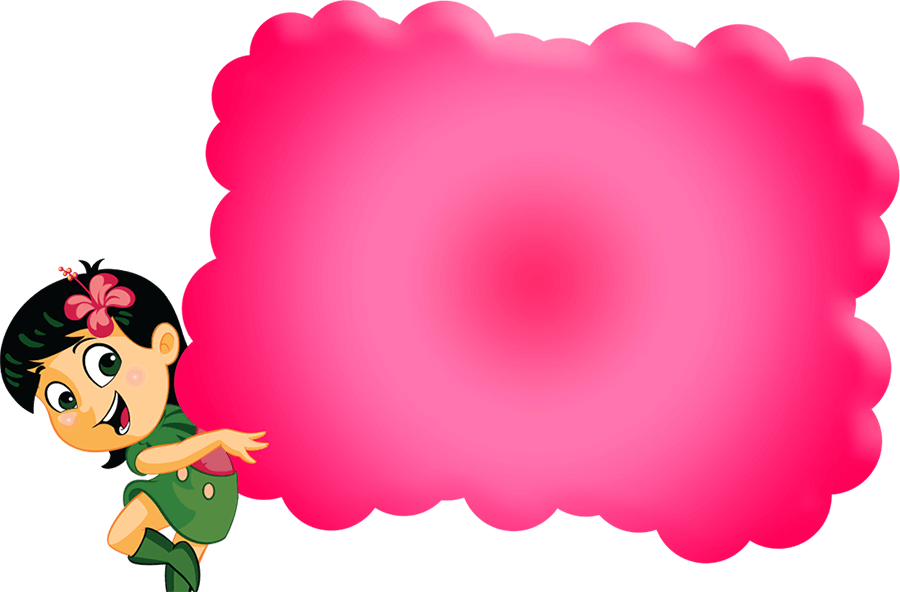
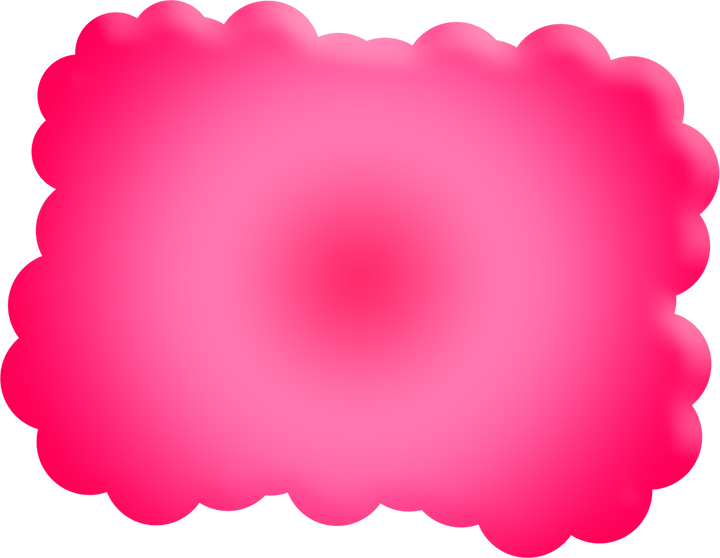
update mobile layout popup details

diff --git a/app/styles/global/_modal.scss b/app/styles/global/_modal.scss
@@ -498,28 +498,26 @@
 }
 
 .modal--video-detail {
-    margin-top: 80px;
-    /* @include screen( medium ) {
-        margin-top: 20px;
-    } */
     &.type-1 {
         background: url('../images/modal/bg-details-1.png') center center no-repeat;
         background-size: 100% 100%;
-        max-width: 900px;
-        height: 592px;
+        max-width: 720px;
+        height: 558px;
+
+        .figure {
+            bottom: 0;
+            left: -20%;
+            position: absolute;
+        }
     }
     &.type-2 {
         background: url('../images/modal/bg-details-2.png') center center no-repeat;
         background-size: 100% 100%;
-        max-width: 1000px;
+        max-width: 720px;
         height: 548px;
 
-        .btn-close {
-            top: 5%;
-            right: 10%;
-        }
         .heading-top {
-            margin: -30px auto 0;
+            margin: 0 auto;
             @include screen( medium ) {
                 top: -30px;
                 margin-left: 100px;
@@ -527,7 +525,7 @@
         }
         .inner {
             top: -30px;
-            padding: 0 280px 0 200px;
+            padding: 0 80px;
         }
         .info {
             color: #003475;
@@ -537,6 +535,16 @@
         .info_social {
             .button--facebook--small {
                 right: 15px;
+            }
+        }
+        .figure {
+            bottom: 0;
+            position: absolute;
+            &.figure-1 {
+                left: -15%;
+            }
+            &.figure-2 {
+                right: -30%;
             }
         }
     }
@@ -552,17 +560,17 @@
         max-width: 308px;
         height: 122px;
         text-indent: -9999px;
-        margin: -40px auto 0;
+        margin: 0 auto;
+        position: relative;
+        top: -40px;
         @include screen( medium ) {
             margin-left: 300px;
-            position: relative;
-            top: -40px;
         }
     }
     .inner {
-        padding: 0 75px 0 275px;
-        position: relative;
         top: -40px;
+        position: relative;
+        padding: 0 65px 0 90px;
 
         .arrow {
             width: 25px;

diff --git a/app/test-popup.html b/app/test-popup.html
@@ -387,7 +387,9 @@
         <h2 class="heading-top">Thần tượng âm nhạ nhí online</h2>
         <div class="inner">
             <div class="embed-container">
-                <iframe src="http://www.youtube.com/embed/QILiHiTD3uc" frameborder="0" allowfullscreen></iframe>
+                <a href="" class="arrow arrow-prev" title="Prev"></a>
+                    <iframe src="http://www.youtube.com/embed/QILiHiTD3uc" frameborder="0" allowfullscreen></iframe>
+                <a href="" class="arrow arrow-next" title="Next"></a>
             </div>
             <div class="info clearfix">
                 <div class="info_user">
@@ -407,6 +409,7 @@
                 </div>
             </div>
         </div>
+        <img src="images/modal/figure-detail-1-left.png" alt="" class="figure" />
     </div>
 
     <!-- Modal Video Detail 2 -->
@@ -437,6 +440,9 @@
                 </div>
             </div>
         </div>
+        <img src="images/modal/figure-detail-2-left.png" alt="" class="figure figure-1 hide-for-small" />
+        <img src="images/modal/figure-detail-2-right.png" alt="" class="figure figure-2 hide-for-small" />
+        <img src="images/modal/figure-detail-2-mobile.png" alt="" class="figure figure-2 show-for-small" />
     </div>
 
     <!-- build:js scripts/vendor.js -->

diff --git a/app/list-video.html b/app/list-video.html
@@ -274,7 +274,6 @@
 
         <div class="grass"></div>
 
-
         <footer>
             <div class="container">
                 <p class="copyright">Bản quyền 2016 by LIF KUN</p>
